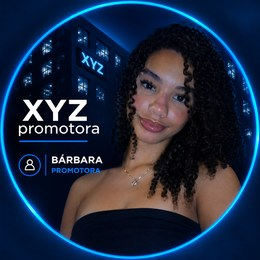
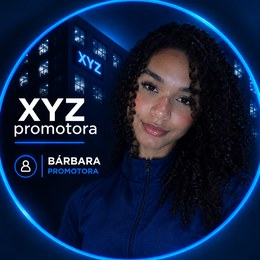
CRM: Atendentes e Alterar senha no rodapé; nova foto da Bárbara
Claude-Session: https://claude.ai/code/session_011cNRY52pM8T9hCFAeAUyqH

diff --git a/crm/index.html b/crm/index.html
@@ -51,7 +51,7 @@ header .quem b{color:var(--texto)}
 nav{display:flex;gap:6px;padding:14px 22px 0;overflow-x:auto}
 nav button{white-space:nowrap;background:none;border:1px solid transparent;padding:9px 14px;border-radius:10px;color:var(--suave);cursor:pointer;font-weight:600}
 nav button.ativa{background:var(--painel2);color:var(--texto);border-color:var(--borda)}
-main{padding:18px 22px 120px;max-width:1200px;margin:0 auto}
+main{padding:18px 22px 40px;max-width:1200px;margin:0 auto}
 .barra{display:grid;grid-template-columns:2fr 1fr 1fr 1fr auto auto;gap:10px;align-items:end;margin-bottom:14px}
 .resumo{display:flex;gap:10px;flex-wrap:wrap;margin-bottom:14px}
 .kpi{border-radius:var(--raio);padding:12px 16px;min-width:150px}
@@ -68,6 +68,9 @@ tbody tr:last-child td{border-bottom:0}
 .cadeado{font-size:12px;padding:3px 9px;border-radius:99px;background:rgba(34,197,94,.12);color:#4ade80;white-space:nowrap}
 .cadeado.nao{background:rgba(255,255,255,.05);color:var(--suave)}
 
+.rodape{position:relative;z-index:2;display:flex;gap:14px;justify-content:center;padding:10px 0 26px}
+.rodape button{background:none;border:0;color:var(--suave);font-size:11px;opacity:.55;cursor:pointer;text-decoration:underline;text-underline-offset:3px}
+.rodape button:hover,.rodape button.ativa{opacity:1;color:var(--roxo2)}
 /* AVATAR */
 .av{width:40px;height:40px;border-radius:50%;object-fit:cover;flex:none;display:inline-flex;align-items:center;justify-content:center;font-weight:700;font-size:14px;background:linear-gradient(135deg,#0047b3,#00a6ff);color:#fff;border:2px solid rgba(255,255,255,.15);overflow:hidden}
 .av img{display:block;width:100%;height:100%;object-fit:cover;aspect-ratio:1/1}
@@ -204,8 +207,6 @@ tbody tr:last-child td{border-bottom:0}
   <nav>
     <button data-aba="clientes" class="ativa">Clientes</button>
     <button data-aba="ranking">Ranking</button>
-    <button data-aba="atendentes" id="nav-atendentes" hidden>Atendentes</button>
-    <button data-aba="conta">Minha conta</button>
   </nav>
   <main>
     <!-- CLIENTES -->
@@ -283,6 +284,11 @@ tbody tr:last-child td{border-bottom:0}
       </form>
     </div>
   </main>
+
+  <footer class="rodape">
+    <button data-aba="atendentes" id="nav-atendentes" hidden>Atendentes</button>
+    <button data-aba="conta">Alterar senha</button>
+  </footer>
 
   <!-- RANKING FLUTUANTE -->
   <div id="flut">
@@ -529,9 +535,9 @@ async function iniciar() {
 }
 
 /* ---------- abas ---------- */
-$$('nav button').forEach(b => b.onclick = () => abrirAba(b.dataset.aba));
+$$('nav button, .rodape button').forEach(b => b.onclick = () => abrirAba(b.dataset.aba));
 function abrirAba(aba) {
-  $$('nav button').forEach(b => b.classList.toggle('ativa', b.dataset.aba === aba));
+  $$('nav button, .rodape button').forEach(b => b.classList.toggle('ativa', b.dataset.aba === aba));
   ['clientes', 'ranking', 'atendentes', 'conta'].forEach(a => $('#aba-' + a).hidden = a !== aba);
   if (aba === 'clientes') carregarClientes();
   if (aba === 'ranking') carregarRanking();
